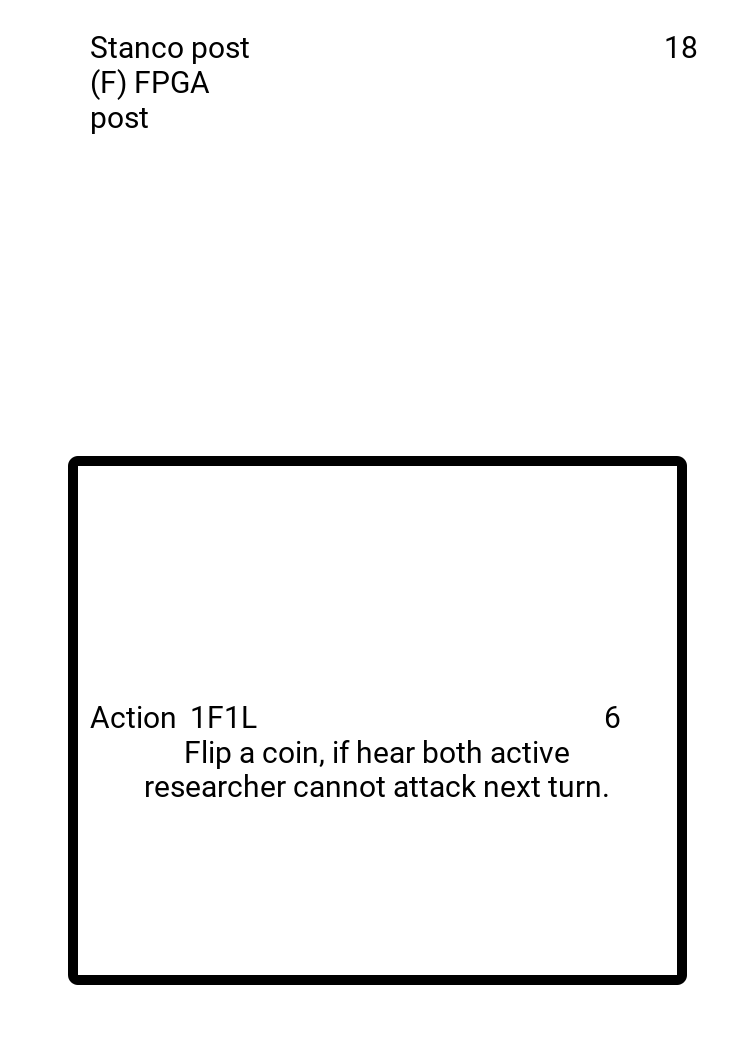
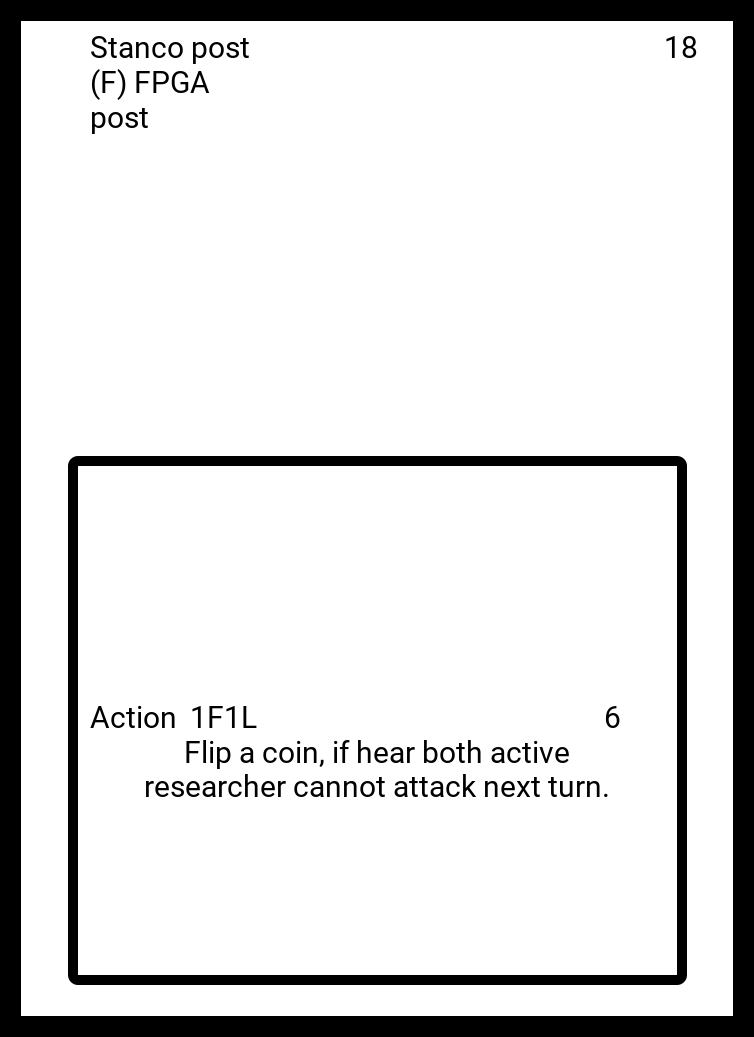
Diferentiated the templates of phd from the post

Changed region(s): [[0.0, 0.0, 1.0, 1.0]]

diff --git a/builder.py b/builder.py
@@ -71,7 +71,10 @@ for index, row in df.iterrows():
         img = Image.open('template/coin-template.png')
         print_card(img=img, name=row["public name"], type=row["type"], text_color=(0, 0, 0))
     if row["type"] in ("(F) FPGA", "(P) PAT", "(U) Pure", "(Q) QRNG", "(S) Source", "(W) Weak"):
-        img = Image.open('template/researcher-template.png')
+        if row["grade"] == "phd":
+            img = Image.open('template/phd-template.png')
+        else:
+            img = Image.open('template/post-template.png')
         print_card(img=img, name=row["public name"], type=row["type"], effect_description=row["effect"],
                    project_points=row["project points"], grade=row["grade"], action_cost=row["action cost"], action_description=row["action"], action_steal_points=row["steal points"],
                    text_color=(0, 0, 0))
